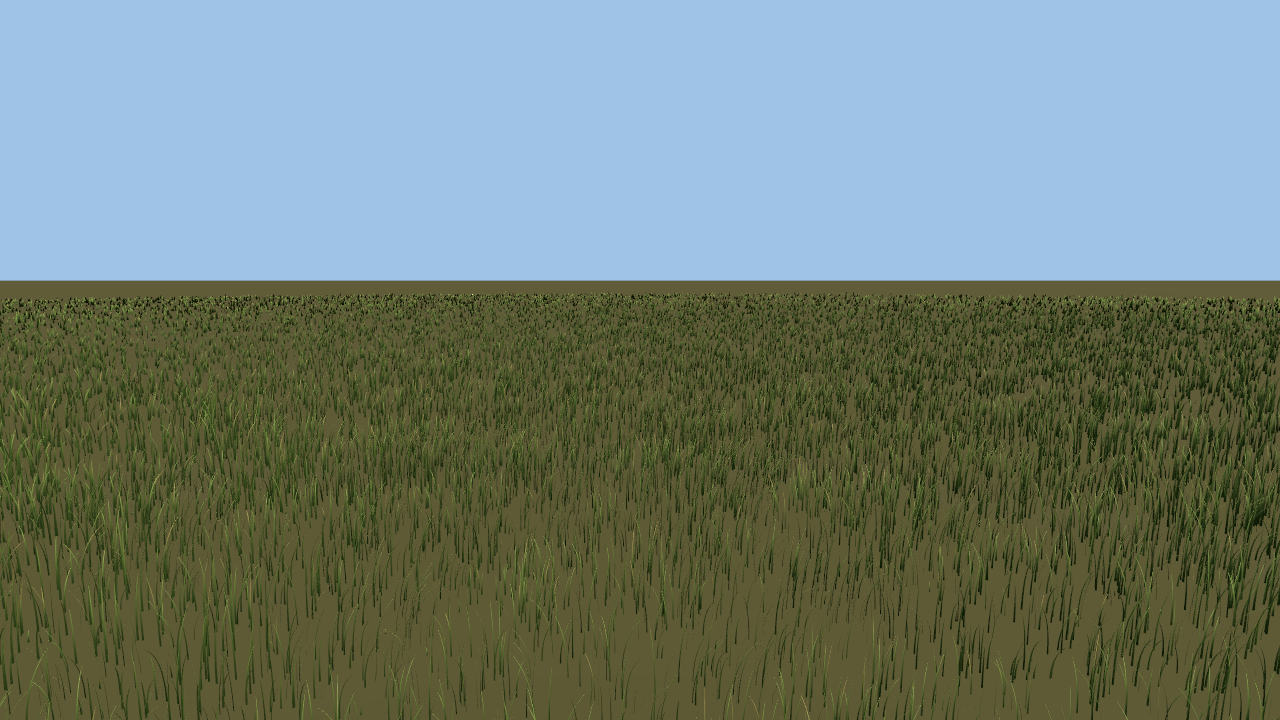
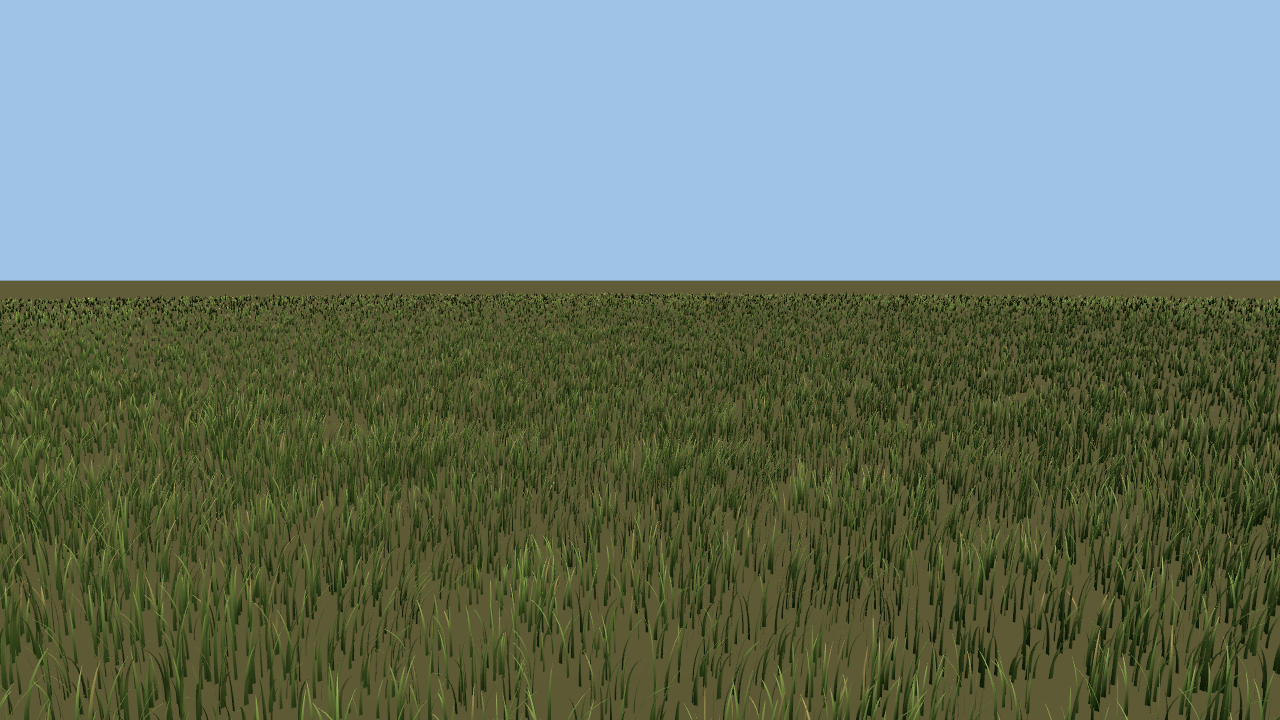
e85a5860: c4's pictures at 18db9c05b (after merging 7's standing and 9's switch), main's meadow beside

diff --git a/README.md b/README.md
@@ -1,14 +1,18 @@
 # e85a5860 · c4 in avenBOX (no frame of these reaches main)
 
-Shot by `intent-work/e85a5860-shots/shots.mjs --skip-main` on `intent/e85a5860-grass-compute@8086e0131`, in avenBOX's own
-Chromium in software (SwiftShader), the grass alone (`play/site/scripts/grass-shots/harness.js`) drawn into a target and
-read back. In avenBOX's headless Chromium a WebGPU canvas never presents, so no world page can be shot on WebGPU there.
+Shot by `intent-work/e85a5860-shots/run.sh` on `intent/e85a5860-grass-compute@18db9c05b`, in avenBOX's own Chromium in
+software (SwiftShader). The grass is shot alone (`play/site/scripts/grass-shots/harness.js`), drawn into a target and
+read back: a WebGPU canvas never presents in avenBOX's headless Chromium, so no world page can be shot on WebGPU there.
 
-- `meadow-near.png`, `meadow-beside.png`: the same meadow at walking height. Left, intent 7's tiles (the WebGL 2
-  fallback). Right, the blades chosen on the card (WebGPU): 180 blades a m² near, not 120.
-  - The compute chose 7,748 / 8,742 / 8,883 blades by level (25,373).
-  - The tiles sent 27,093 / 74,896 / 47,680 instances (149,669), most of them sunk or outside the view.
-- `trample-strip.png` (before, 0, 3 and 10 s) and `trample-*.png`: a walker crossed 12 m of the meadow at 1.3 m/s,
-  seen beside the walk's end. The trample map was read back along its last 4 m: at most 0.912 at 0 s, 0.371 at 3 s,
-  0.151 at 6 s and 0.046 at 10 s.
+- `meadow-near.png`, three pictures at walking height, near:
+  - **main today:** main's Sandbox 1 meadow (14, 81) on WebGL, `main.png` whole: its grass is scattered tufts.
+  - **intent 7's tiles:** the WebGL 2 fallback, 120 blades a m² near. Sends 30,720 / 93,344 / 56,128 instances by level
+    (180,192), most of them sunk or outside the view.
+  - **this branch:** the blades chosen on the card (WebGPU), 180 a m² near. Draws 9,421 / 11,657 / 11,751 by level
+    (32,829).
+- `trample-strip.png` (before, 0, 3 and 10 s) and `trample-*.png`:
+  - A walker crossed 12 m of the meadow at 1.3 m/s, seen beside the walk's end.
+  - The trample map was read back along its last 4 m: at most 0.912 at 0 s, 0.371 at 3 s, 0.151 at 6 s and 0.046 at
+    10 s.
+  - The flattened band shows at 0 s, fades by 3 s and is gone by 10 s.
 - `shots.json`: every number above.
